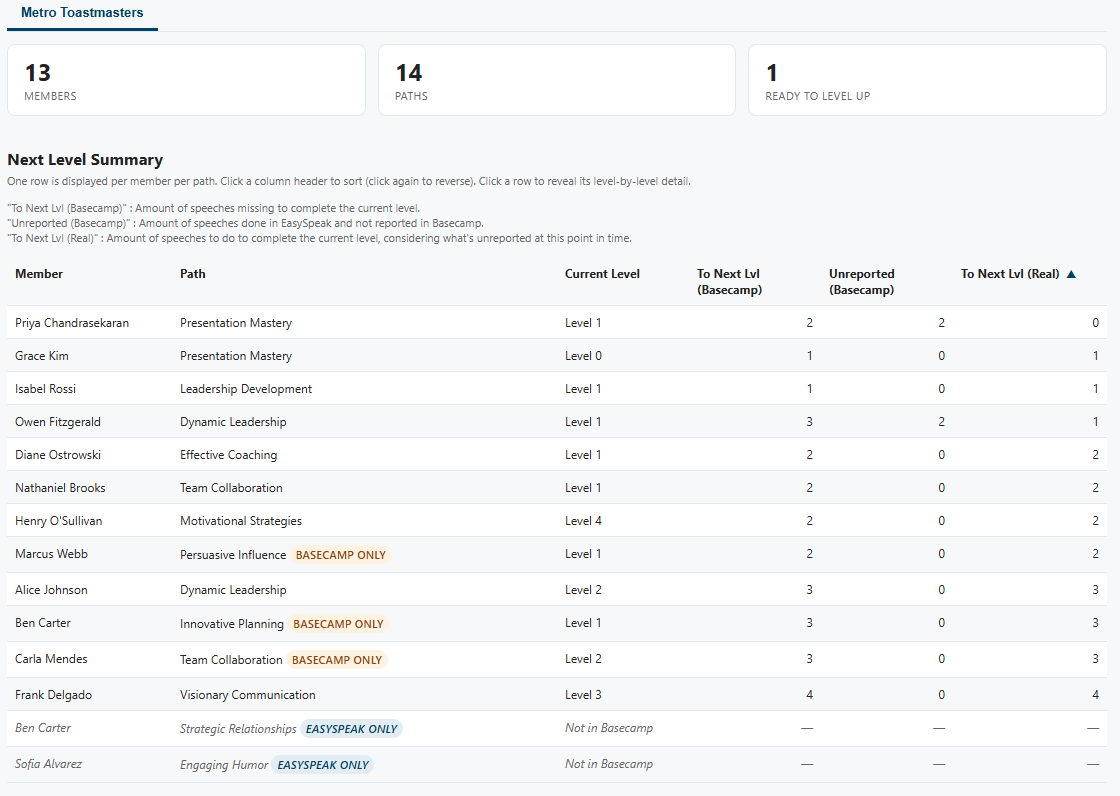
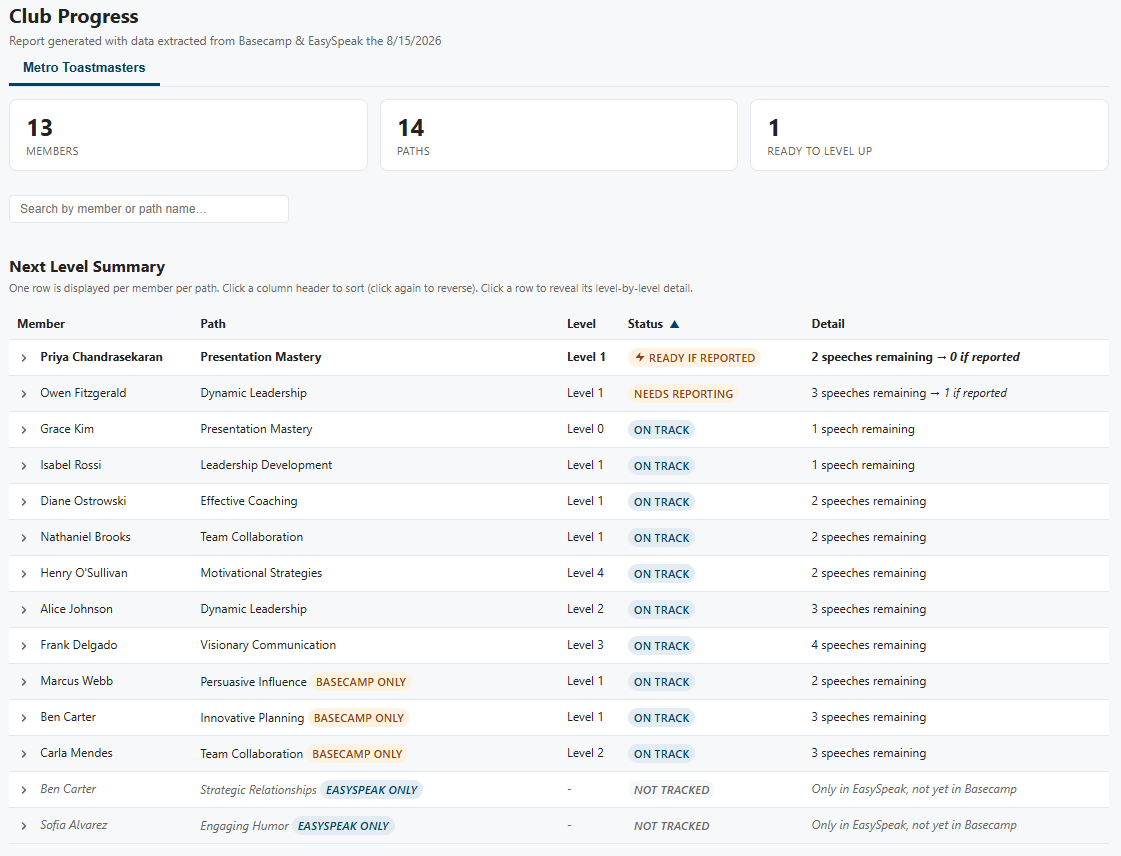
feat(landing): update extension screenshots

diff --git a/landing/src/data/screenshots.ts b/landing/src/data/screenshots.ts
@@ -1,6 +1,6 @@
 import setupImg from "../assets/screenshot_sync_data.png";
 import dashboardImg from "../assets/screenshot_club_progress.png";
-import discrepancyImg from "../assets/screenshot_club_progress_detail.png";
+import memberProgressImg from "../assets/screenshot_club_progress_detail.png";
 import matchImg from "../assets/screenshot_member_review.png";
 
 export interface Screenshot {
@@ -30,9 +30,9 @@ export const screenshots: Screenshot[] = [
     image: matchImg,
   },
   {
-    id: "discrepancy",
-    title: "Discrepancy Detection",
-    caption: "Catch discrepancies between Basecamp and EasySpeak.",
-    image: discrepancyImg,
+    id: "member-progress",
+    title: "Follow Member Progress",
+    caption: "Get a clear picture of both Basecamp and EasySpeak in one place.",
+    image: memberProgressImg,
   },
 ];

diff --git a/landing/src/components/sections/Problem.tsx b/landing/src/components/sections/Problem.tsx
@@ -6,7 +6,7 @@ const workflowSteps = [
   "Open EasySpeak",
   "Check members individually",
   "Compare records manually",
-  "Discover discrepancies",
+  "Figure out differences",
 ];
 
 export default function Problem() {
